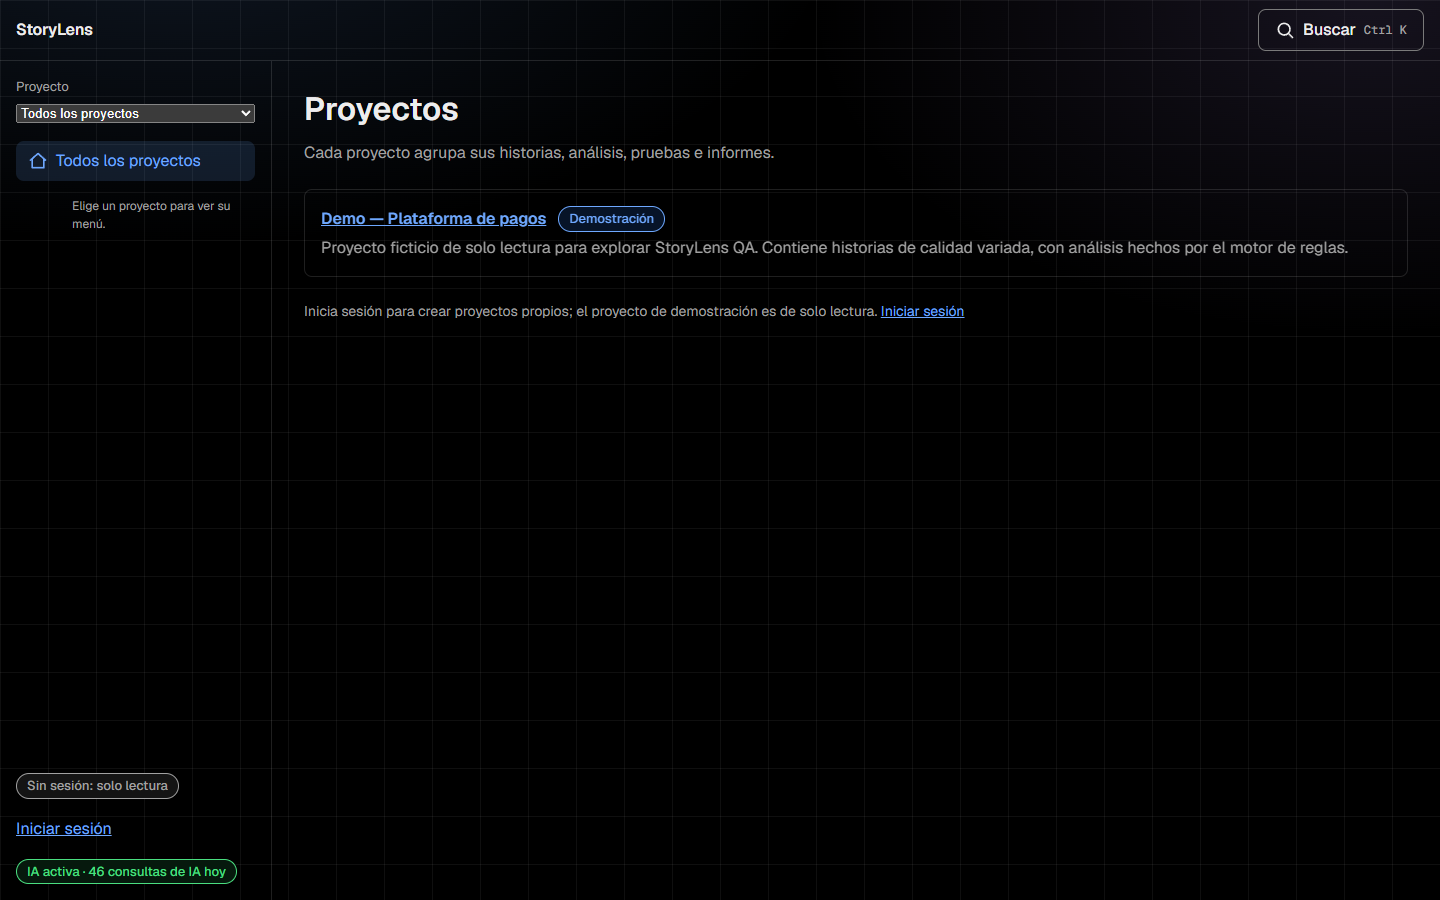
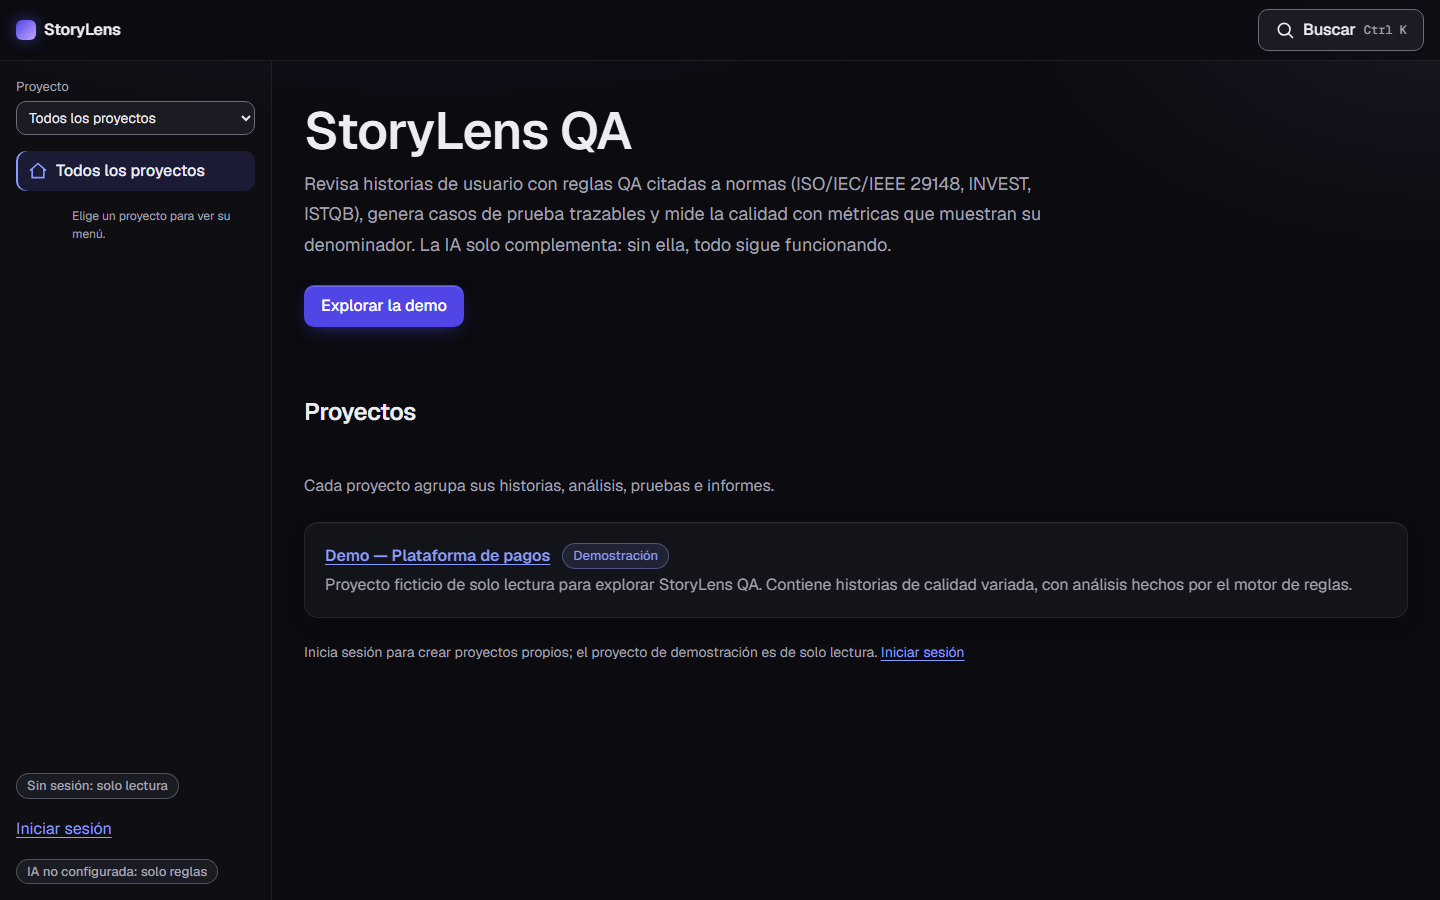
feat: stable /demo links, README with live demo, AI evaluation and decisions; deploy docs
/demo/<screen> redirects to the current demo project, so links survive a reseed.
README: live demo on top, direct demo links, evaluation table with caveats, technical
decisions linking the ADRs, refreshed screenshots. docs/09 and 03 describe the real
Render + Neon deployment. Badges no longer wrap inside tables.

diff --git a/frontend/src/app/DemoRedirect.test.tsx b/frontend/src/app/DemoRedirect.test.tsx
@@ -1,0 +1,49 @@
+import { render, screen } from "@testing-library/react";
+import { MemoryRouter, Route, Routes, useLocation } from "react-router-dom";
+import { afterEach, describe, expect, it, vi } from "vitest";
+import { makeProject } from "../test/fakeApi";
+import { json, stubFetch } from "../test/renderPage";
+import { DemoRedirect } from "./DemoRedirect";
+
+afterEach(() => vi.unstubAllGlobals());
+
+function Where() {
+  return <p>en {useLocation().pathname}</p>;
+}
+
+function visit(entry: string, projects: unknown[]) {
+  stubFetch({
+    me: { authenticated: false },
+    handler: (call) => (call.path === "/projects" ? json(projects) : undefined),
+  });
+  render(
+    <MemoryRouter initialEntries={[entry]}>
+      <Routes>
+        <Route path="/demo/*" element={<DemoRedirect />} />
+        <Route path="/p/*" element={<Where />} />
+      </Routes>
+    </MemoryRouter>,
+  );
+}
+
+describe("DemoRedirect", () => {
+  const demo = makeProject({ id: "d1", is_demo: true });
+  const own = makeProject({ id: "p1" });
+
+  it("lleva a la misma pantalla del proyecto demo actual", async () => {
+    visit("/demo/metricas", [own, demo]);
+    expect(await screen.findByText("en /p/d1/metricas")).toBeInTheDocument();
+  });
+
+  it("sin pantalla, abre el resumen de la demo", async () => {
+    visit("/demo", [demo]);
+    expect(await screen.findByText("en /p/d1")).toBeInTheDocument();
+  });
+
+  it("si no hay demo, muestra no encontrado", async () => {
+    visit("/demo/metricas", [own]);
+    expect(
+      await screen.findByRole("heading", { name: /no encontrad/i }),
+    ).toBeInTheDocument();
+  });
+});

diff --git a/frontend/src/app/DemoRedirect.tsx b/frontend/src/app/DemoRedirect.tsx
@@ -1,0 +1,18 @@
+import { Navigate, useParams } from "react-router-dom";
+import * as api from "../api/client";
+import { useLoad } from "../shared/useLoad";
+import { ErrorNotice } from "../shared/ui/ErrorNotice";
+import { Spinner } from "../shared/ui/Spinner";
+import { NotFound } from "./NotFound";
+
+/** `/demo/<pantalla>` lleva al proyecto demo actual: enlaces estables aunque la demo se vuelva a sembrar. */
+export function DemoRedirect() {
+  const rest = useParams()["*"] ?? "";
+  const list = useLoad(() => api.listProjects(), "projects");
+  if (list.error)
+    return <ErrorNotice message={list.error} onRetry={list.reload} />;
+  if (!list.data) return <Spinner label="Cargando la demo…" />;
+  const demo = list.data.find((project) => project.is_demo);
+  if (!demo) return <NotFound />;
+  return <Navigate replace to={`/p/${demo.id}${rest ? `/${rest}` : ""}`} />;
+}

diff --git a/frontend/src/app/routes.tsx b/frontend/src/app/routes.tsx
@@ -4,6 +4,7 @@ import { Outlet, createBrowserRouter } from "react-router-dom";
 import type { RouteObject } from "react-router-dom";
 import { LoginPage } from "../features/auth/LoginPage";
 import { Spinner } from "../shared/ui/Spinner";
+import { DemoRedirect } from "./DemoRedirect";
 import { NotFound, RouteError } from "./NotFound";
 import { Shell } from "./Shell";
 import { SessionProvider } from "./session";
@@ -61,6 +62,7 @@ export const routes: RouteObject[] = [
                   "ProjectsPage",
                 ),
               },
+              { path: "demo/*", element: <DemoRedirect /> },
               {
                 path: "p/:projectId",
                 element: screen(

diff --git a/frontend/src/styles/components.css b/frontend/src/styles/components.css
@@ -112,6 +112,7 @@
   border-radius: 999px;
   font-size: 0.8125rem;
   font-weight: 500;
+  white-space: nowrap;
 }
 .badge--ok {
   color: var(--ok);

diff --git a/README.md b/README.md
@@ -11,7 +11,11 @@
 ![Costo](https://img.shields.io/badge/costo-0-2ea44f)
 [![Licencia: MIT](https://img.shields.io/badge/licencia-MIT-blue.svg)](LICENSE)
 
-<img src="docs/screenshots/05-analisis-con-ia.png" alt="Análisis de una historia con reglas e IA: puntaje, hallazgos con su norma y la confianza de la IA" width="900">
+### [▶ Abrir la demo en vivo](https://storylens-qa.onrender.com)
+
+<sub>Proyecto de ejemplo de solo lectura, sin registro. Hosting gratuito: si nadie la visitó en los últimos 15 minutos, la primera carga tarda cerca de un minuto en despertar.</sub>
+
+<img src="docs/screenshots/00-analisis-por-reglas.png" alt="Análisis de una historia en la demo: puntaje 40 de 100, «No lista» por un hallazgo bloqueante citado a su norma" width="900">
 
 </div>
 
@@ -33,9 +37,22 @@ StoryLens QA toma historias de usuario (escritas a mano o importadas de Jira), d
 | 9 | **Métricas** | Cada cifra con su definición y su denominador; «Sin datos» en vez de un cero inventado |
 | 10 | **Evaluación de la IA** | Precisión, exhaustividad y F1 contra un conjunto de referencia, solo reglas frente a reglas e IA, y pruebas de inyección de instrucciones |
 
+## Pruébalo en 1 minuto
+
+| Qué ver | Enlace directo |
+|---|---|
+| Historias con su puntaje y estado | [/demo/stories](https://storylens-qa.onrender.com/demo/stories) |
+| Resumen del proyecto | [/demo](https://storylens-qa.onrender.com/demo) |
+| Métricas con su denominador | [/demo/metricas](https://storylens-qa.onrender.com/demo/metricas) |
+| Riesgo por épica, duplicados y contradicciones | [/demo/transversal](https://storylens-qa.onrender.com/demo/transversal) |
+| Evaluación contra el conjunto de referencia | [/demo/evaluacion](https://storylens-qa.onrender.com/demo/evaluacion) |
+| Informes en PDF y Markdown | [/demo/reports](https://storylens-qa.onrender.com/demo/reports) |
+
+La demo pública funciona solo con reglas: la IA queda reservada a la cuenta del dueño para no gastar la cuota gratuita.
+
 ## Capturas
 
-Tomadas con Gemini real (capa gratuita) sobre una historia de ejemplo de banca móvil.
+Las capturas con IA se tomaron con Gemini real (capa gratuita) sobre una historia de ejemplo de banca móvil, antes del rediseño visual; las de la demo son del sitio actual.
 
 ### Análisis de una historia con IA
 
@@ -126,6 +143,29 @@ Más detalle: [guía de desarrollo](docs/08-guia-de-desarrollo.md) · [despliegu
 
 Ninguna prueba llama a Gemini. La integración continua ejecuta todo lo anterior en cada cambio y busca secretos en el historial.
 
+## Evaluación de la IA
+
+Medida contra un conjunto de referencia de 16 historias etiquetadas a mano ([informe completo](evaluation/reports/2026-10-23-reglas+ia.md)), con `gemini-3.5-flash-lite` y el prompt `analysis-v1`:
+
+| Detector | Precisión | Exhaustividad | F1 |
+|---|---|---|---|
+| Reglas automáticas | 1,00 | 1,00 | 1,00 |
+| Reglas de IA | 0,56 | 0,71 | 0,63 |
+
+Cómo leerlo: el conjunto lo escribió el mismo autor que las reglas, así que el 1,00 de las reglas mide que hacen lo que dicen, no que generalicen a historias nuevas. Con solo 7 hallazgos de IA esperados, un acierto mueve la exhaustividad más de 10 puntos. El fallo real que se vio: la IA no detectó el «solo camino feliz» en dos historias. La IA nunca bloquea nada: sus hallazgos son sugerencias que la persona acepta o descarta. Una prueba aparte comprobó que no obedece instrucciones inyectadas en el texto de una historia ([detalle](evaluation/reports/2026-10-23-fase3-4-gemini-real.md)).
+
+## Decisiones técnicas
+
+| Decisión | Por qué |
+|---|---|
+| [Motor híbrido: reglas primero, IA después](docs/adr/001-motor-hibrido-reglas-ia.md) | Resultados reproducibles y trazables a una norma; la IA solo suma, y si falla la app sigue |
+| [Solo el backend habla con Gemini](docs/adr/002-backend-como-proxy-de-gemini.md) | La clave nunca llega al navegador; la CI lo comprueba sobre el bundle |
+| [SQLite en local, PostgreSQL en la nube](docs/adr/003-sqlite-para-persistencia.md) | Repositorios detrás de puertos: cambiar de base no toca el dominio |
+| [Una cuenta de dueño con cookie firmada](docs/adr/004-sesion-por-cookie-firmada.md) | Sin registro ni contraseñas de terceros que custodiar; la demo pública es de solo lectura |
+| [Cuota de IA persistente](docs/adr/005-cuota-de-ia-persistente.md) | Topes propios más estrictos que la capa gratuita: imposible pasarse y pagar |
+| [Importación en segundo plano](docs/adr/006-importacion-en-segundo-plano.md) | 500 filas sin bloquear la petición, con progreso y reintento seguro |
+| [Un solo servicio en Render + Neon](docs/09-despliegue.md) | Mismo origen para la cookie de sesión, evidencias en la base porque el disco gratuito se borra |
+
 ## Seguridad y costo cero
 
 - La clave de Gemini vive **solo en el backend**, en una variable de entorno; nunca llega al navegador (la CI lo comprueba sobre el bundle).
@@ -155,7 +195,8 @@ La API se documenta sola: con el backend en marcha, `/docs` (Swagger) y `/openap
 
 Las siete fases del plan están construidas: fundaciones, frontend, importación masiva, análisis transversal, métricas, evaluación de la IA, y pruebas de extremo a extremo con Docker. Lo que falta y se sabe:
 
-- El despliegue público gratuito está preparado y documentado, pero no ejecutado.
+- Desplegado gratis en Render + Neon: [storylens-qa.onrender.com](https://storylens-qa.onrender.com). La IA no está activa en producción.
+- El conjunto de referencia es pequeño (16 historias) y del mismo autor que las reglas; falta medir contra historias no vistas.
 - El listado de historias se filtra y pagina en el navegador, pensado para hasta unos 500 por proyecto.
 
 ## Licencia

diff --git a/docs/09-despliegue.md b/docs/09-despliegue.md
@@ -25,40 +25,42 @@ cp .env.example .env        # completa OWNER_EMAIL, OWNER_PASSWORD, SESSION_SECR
 docker compose up --build   # http://localhost:8080
 ```
 
-`nginx` sirve la interfaz y reenvía `/api/` al backend en **el mismo origen**. Eso importa:
-la sesión del dueño es una cookie `SameSite=Lax`, que el navegador solo envía si interfaz y API
-comparten origen.
+Un solo contenedor: FastAPI sirve la API y la interfaz compilada desde **el mismo origen**. Eso
+importa: la sesión del dueño es una cookie `SameSite=Lax`, que el navegador solo envía si
+interfaz y API comparten origen.
 
-## Despliegue gratuito (sin ejecutar todavía)
+## Despliegue gratuito (en producción)
 
-Los planes gratuitos cambian: **verifica estas condiciones antes de elegir** (consultadas el
-2026-10-24).
+Demo pública: **https://storylens-qa.onrender.com**. Condiciones verificadas el 2026-10-31; los
+planes gratuitos cambian, revísalas antes de replicarlo.
 
-| Pieza | Opción | Lo que hay que saber |
+| Pieza | Servicio | Lo que hay que saber |
 |---|---|---|
-| Interfaz estática | [Cloudflare Pages](https://developers.cloudflare.com/pages/platform/limits) | 500 compilaciones al mes, 20 000 archivos, sin tarjeta |
-| Backend | [Render, plan gratuito](https://render.com/docs/free) | Se duerme tras 15 min sin tráfico (despertar ≈ 1 min); 750 horas al mes; **sin disco persistente** |
-| Base de datos | [Neon](https://neon.com/pricing) | Plan gratuito permanente, 0,5 GB por proyecto, se duerme a los 5 min, sin tarjeta |
+| App (API + interfaz) | [Render, plan gratuito](https://render.com/docs/free), imagen Docker | Se duerme tras 15 min sin tráfico (despertar ≈ 1 min); 750 horas al mes; disco efímero; sin tarjeta, al pasarse del límite suspende en vez de cobrar |
+| Base de datos | [Neon](https://neon.com/pricing), PostgreSQL | Plan gratuito permanente, 1 GB por proyecto, sin tarjeta |
 
-Consecuencias de diseño:
+**Cómo se desplegó** (repetible):
 
-- **Mismo origen.** Con la interfaz en Cloudflare Pages y el backend en Render hay dos orígenes:
-  la demo anónima funciona, pero el inicio de sesión del dueño **no** (la cookie no viaja).
-  Solución sin costo: una regla de reescritura de `/api/*` hacia el backend en el propio
-  hosting estático (en Cloudflare Pages, un Worker o una regla `_redirects` con estado 200), o
-  servir interfaz y API desde un único servicio con la imagen de Docker.
-- **Base de datos.** SQLite en el disco de Render se pierde al dormirse el servicio. En la nube
-  usa PostgreSQL gratuito (`pip install -e ".[postgres]"` y `DATABASE_URL=postgres://...`; se
-  normaliza solo).
-- **Evidencias de imagen.** Se guardan en disco (`EVIDENCE_DIR`), que en el plan gratuito de
-  Render no persiste: las notas y los enlaces sí (están en la base), las imágenes **no**. Mientras
-  no haya almacenamiento gratuito persistente, en la nube conviene usar solo notas y enlaces.
-- **Arranque en frío.** La interfaz ya muestra «El servidor está despertando…» con reintentos.
-- **Gemini.** Solo clave de capa gratuita, sin facturación, en una variable de entorno del
-  backend; la demo pública nunca usa IA y la UI avisa que los datos enviados a la capa gratuita
-  pueden usarse para mejorar modelos.
-- **Variables obligatorias en producción:** `OWNER_EMAIL`, `OWNER_PASSWORD`,
-  `SESSION_SECRET` (larga y aleatoria) y `COOKIE_SECURE=true` bajo HTTPS.
+1. Neon: `npx neonctl auth`, luego `neonctl projects create --name storylens-qa` y
+   `neonctl connection-string --pooled`. La URL se guarda fuera del repositorio.
+2. Render: *New → Blueprint* sobre este repositorio. [`render.yaml`](../render.yaml) define el
+   servicio; Render genera `SESSION_SECRET` y `OWNER_PASSWORD`, y pide `DATABASE_URL` y
+   `OWNER_EMAIL`. Cada cambio en `main` se despliega solo.
+3. Al arrancar, la app aplica las migraciones y siembra el proyecto demo si no existe.
+
+Decisiones que lo hacen funcionar gratis:
+
+- **Mismo origen.** Un único servicio evita el problema de la cookie entre dominios (con la
+  interfaz en otro hosting, la demo funciona pero el inicio de sesión del dueño no).
+- **Todo en la base.** Las imágenes de evidencia se guardan en PostgreSQL (máx. 1 MB cada una),
+  porque el disco de Render se borra al reiniciar.
+- **Arranque en frío.** La interfaz muestra «El servidor está despertando…» con reintentos.
+- **Enlaces estables a la demo.** `/demo/<pantalla>` (p. ej. `/demo/metricas`) lleva al proyecto
+  demo vigente aunque se vuelva a sembrar con otro id.
+- **Gemini.** No está activo en producción. Para activarlo: clave de capa gratuita, sin
+  facturación, en `GEMINI_API_KEY` y `GEMINI_MODEL` del servicio. La demo pública nunca usa IA.
+- **Variables en producción:** `DATABASE_URL`, `OWNER_EMAIL`, `OWNER_PASSWORD`,
+  `SESSION_SECRET` y `COOKIE_SECURE=true` (ya en `render.yaml`).
 
 ## Documentación de la API
 

diff --git a/docs/03-arquitectura.md b/docs/03-arquitectura.md
@@ -185,11 +185,12 @@ qa-story-reviewer/
 
 ## 9. Despliegue
 
-| Componente | Opción recomendada | Alternativa |
-|-----------|-------------------|-------------|
-| Backend | Google Cloud Run (contenedor; key en Secret Manager) | Render, Fly.io |
-| Frontend | Vercel o Netlify | Firebase Hosting |
-| Base de datos | SQLite en volumen (demo) | Cloud SQL / Neon PostgreSQL |
+| Componente | En producción | Alternativa |
+|-----------|---------------|-------------|
+| App (API + interfaz, un solo contenedor) | Render, plan gratuito (`render.yaml`) | Cualquier host de contenedores |
+| Base de datos | Neon PostgreSQL, plan gratuito | SQLite en volumen (local con `docker compose`) |
 | Evidencias | En la propia base de datos (máx. 1 MB por imagen): sobreviven al disco efímero de los hosts gratuitos | |
+
+Detalle y pasos: [09 — Despliegue](09-despliegue.md).
 
 > Para la demo pública del portafolio: activa un límite diario de análisis por IP y un modo demo con historias de ejemplo precargadas, para no agotar la cuota gratuita.
